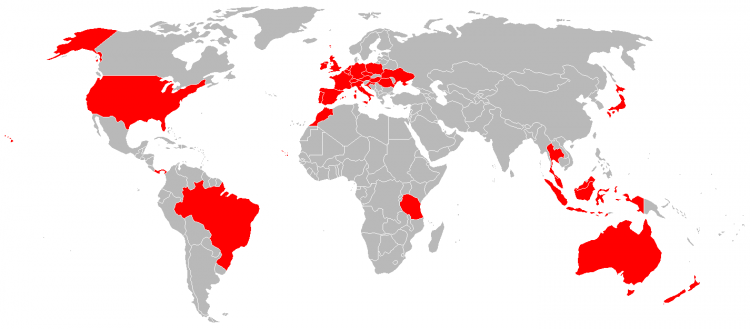
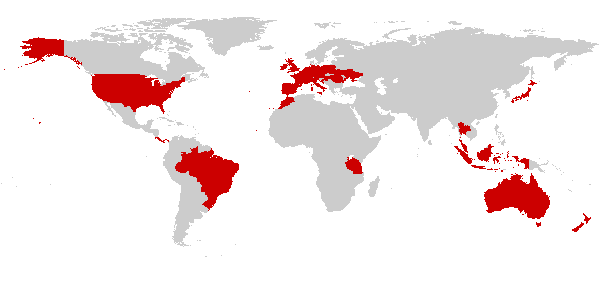
Part1 of CR TD

diff --git a/src/travel_15_costarica.html b/src/travel_15_costarica.html
@@ -82,35 +82,81 @@
 
     <article class="content">
         <div class="sections">
-            <section>
+            <section id="#part1">
+                <h3>10. August 2015: San Jose</h3>
                 <figure class="fig_right landscape">
-                    <a class="gallery" href="img/travel/japan/jp_cockpit_medium.jpg">
-                        <img class="lazy" data-original="/img/travel/japan/jp_cockpit_small.jpg"/>
+                    <a class="gallery" href="img/travel/america/cr_mural_medium.jpg">
+                        <img class="lazy" data-original="/img/travel/america/cr_mural_small.jpg"/>
                     </a>
-                    <figcaption>Sneak peak at the Boing 747 cockpit</figcaption>
+                    <figcaption>Art everywhere in San Jose</figcaption>
                 </figure>
-                <h3>25. September 2004: Freiburg</h3>
-               <p>Heathrow, alternder Moloch des westlichen Flugverkehrs, du hast mich wieder.</p>
-            </section>
-
-            <section>
+                <p>Freunde des ungepflegten Reisenewsletter, ich bin wieder da bzw eigentlich wieder weg, diesmal ab
+                    nach Costa Rica. Daran dachte ich vor einem Monat auch noch nicht, aber dank der glücklichen Fügung
+                    mit meinem Kumpel Tassi in Berlin ein Bierchen trinken zu gehen, bei dem er mir von seinen zwei
+                    Wochen Urlaub im August erzählte, sponn sich daraus dieser Urlaub mit ihm.</p>
+                <p>Angefangen bei Indien endeten unsere Pläne mit Umwege über Kuba und Äthiopien aber dann dank der
+                    Flugpreise und Buchungsmöglichkeiten hier. Und nun werden wir zwei Wochen mit dem Mietwagen von
+                    Küste zu Küste düsen *also düsen wenn es die Strassen zulassen* in der Hoffnung nicht ausgeraubt oder
+                    dem Verkehrsrowdytum zum Opfer zu fallen. Letzteres sollte ich aber nicht Mutti schreiben, die macht
+                    sich ja noch heute wo ich schon fast 40 werde Sorgen, wenn ich wegfliege *aber selber bis nach China
+                    düsen, jaja*</p>
+                <figure class="fig_left portrait">
+                    <a class="gallery" href="img/travel/america/cr_bimbo_medium.jpg">
+                        <img class="lazy" data-original="/img/travel/america/cr_bimbo_small.jpg"/>
+                    </a>
+                    <figcaption>Definitly not to be exported under this name</figcaption>
+                </figure>
+                <p>Ach ja, ungepflegt stimmt auch insoweit, als das ich grad langsam müde werde und irgendwie auch
+                    fauler und eigentlich keine Lust habe, die Fehler dieser total falsch eingestellten Tastaturbelegung
+                    auszubügeln, von daher hoffe ich ihr könnt meinen nochmehralssonstkreatven Schreibstil dennoch
+                    lesen und verstehen ;-) (und die Tasten für diesen Smiley zu finden hat lange gedauert sag ich
+                    euch).</p>
+                <p>Anyway, zurück zum Wesentlichen: Samstag morgen aus der Tür, in bester unbelehrbarer Tradition
+                    wieder mal nur zwei Stunden geschlafen, um 5 den Wecker klingeln lassen und dann 22 stunden mit
+                    zweimal umsteigen auf dem Hinweg verbracht. Dabei zwar nur eine Stunde Aufenthalt in Londons, dafür
+                    aber fünf in Houstons Flughafen, denn in letzterem muss man ja die amerikanische Immigration über
+                    sich ergehen lassen, in ersterem nur mal kurz im Schengenraum umsteigen. Tolle idee oder?
+                    Pustekuchen! Der Flieger aus Berlin drehte erstmal zwei Ehrenrunden und das erste, was ich beim
+                    Aussteigen von einer UnitedAirlines Mitarbeiterin hörte, waren die Worte: "You are going to Houston?
+                    RUN!" Also tat ich das. In Heathrow. Dem moloch der Flughäfen, mit Verbindungstunneln länger als der
+                    Fluchtweg eines mexikanischen Drogenbarons aus dem Knast. Und so waren meine ersten Worte als ich
+                    beim Abfluggate (noch rechtzeitig) ankam: Haben sie eine Dusche an Bord? Leider nein, aber dafür
+                    war ich auf dem weg richtung Texas. Dort war es natürlich nicht so hektisch und ich durfte 4 Stunden
+                    auf den Anschlussflieger warten. Oh well... Was sollte schon sonst noch schiefgehen? Ach ja....
+                    Mein Gepäck. Das konnte natürlich nicht sprinten und so wartete ich in San Jose vergeblich am
+                    Gepäckband. Wie ich erfuhr, wurde es über Newark.. Ach egal, euch interessiert doch eher wie Costa
+                    Rica ist, nicht wahr?</p>
+                <figure class="fig_right landscape">
+                    <a class="gallery" href="img/travel/america/cr_lake_medium.jpg">
+                        <img class="lazy" data-original="/img/travel/america/cr_lake_small.jpg"/>
+                    </a>
+                    <figcaption>Im Tretboot, in Seenot...</figcaption>
+                </figure>
+                <p>Eigentlich nicht so hübsch. Jep, San Jose nutzt man eher als Sprungbrett ins land, so für
+                    Tagestouren oder ähnliches, die Innenstadt ist nicht altkolonialistisch angehaucht, sondern dieser
+                    mix aus Geschaätshäusern, Betonbauten, neu und nichtganzsoneuabernichtaltalt, dreckig und
+                    ganzdreckig, und ganz selten mal ein Haus aus alten Zeiten, als die Spanier nicht nur im Fussball
+                    Weltruhm hatten. Für den heutigen Nachmittag zu flanieren langte es, inklusive leckerem
+                    Einheimischenlokal-reisbohnenkochbananenfisch-essen und im Park den Leuten im dortigen 100Meter
+                    Tümpel beim Tretbootfahren zuzukucken. Unser Hostel ist der LonelyPlanet-Bewertung angemssen ein
+                    von vielen Amis bevölkertes Backpackerhostel, aber dank starkem Akzent erkannten wir die
+                    Österreicher und Deutsche sofort.</p>
                 <figure class="fig_left landscape">
-                    <a class="gallery" href="img/travel/japan/jp_map_medium.jpg">
-                        <img class="lazy" data-original="/img/travel/japan/jp_map_small.jpg"/>
+                    <a class="gallery" href="img/travel/america/cr_pineapple_medium.jpg">
+                        <img class="lazy" data-original="/img/travel/america/cr_pineapple_small.jpg"/>
                     </a>
-                    <figcaption>Probably more confusing than helping.</figcaption>
+                    <figcaption>Reiseproviant</figcaption>
                 </figure>
-                <h3>27.-29. September 2004: Sendai</h3>
-                <p>Sushi, Suppen, Sayonara, Freunde, aus Sendai, einer Millionenstadt im Norden Japans!</p>
-                <figure class="fig_right landscape">
-                    <a class="gallery" href="img/travel/japan/jp_fishnet_medium.jpg">
-                        <img class="lazy" data-original="/img/travel/japan/jp_fishnet_small.jpg"/>
-                    </a>
-                    <figcaption>Fishing nets near Sendai</figcaption>
-                </figure>
-                <p>PS: Der blöde Tourist mit der Wasserflasche, der Jacke und dem Cockpit hat auch
-            bei seiner vorherigen Mail die falsche Internetadresse angegeben: Geht auf
-            www.veeck.de und alles wird gut.</p>
+                <p>Der coolste Mitbewohner ist aber das Kampfkuschelkarnickel. Okay, kämpfen tut es nicht, aber es
+                    lässt sich herrlich streicheln und "IT IS SO FLUFFYYYY" und klug obendrein, denn eben schaffte es
+                    gerade die Terassentür aufzustossen und hineinzuhoppeln. ich sollte also beim zubettgehen darauf
+                    achten wo ich hintrete.</p>
+                <p>Stichwort! Denn in diesem Sinne verabschiede ich mich in die Koje, drücke auf "Senden" ohne zu
+                    wissen, wer überhaupt alles in dem Verteiler noch ist oder fehlt und ohne versprechen zu können,
+                    dass ich nochmal die Muse abends finde lange vorm Internetcafe-pc zu sitzen. Oder wie man bei euch
+                    wohl nun sagt:</p>
+                <p>Schönen guten Morgen!</p>
+                <p>v</p>
             </section>
         </div>
     </article>
@@ -118,7 +164,7 @@
     <footer>
         <div class="shareButton dont_print"></div>
         <a class="to_top" href="#">back to top</a>
-        <time datetime="2015-08-24">page last modified 2015/08/24</time>
+        <time datetime="2015-08-29">page last modified 2015/08/29</time>
     </footer>
 
     <script src="js/vendor/modernizr.min.js" type="text/javascript"></script>

diff --git a/src/index.html b/src/index.html
@@ -97,6 +97,7 @@
             <section>
                 <h3>what has changed</h3>
                 <ul class="changelog">
+                    <li><time datetime="2015-08-29">2015/08/29: </time>Part 1 of my <a href="travel_15_costarica.html#part1" class="animsition-link">Costa Rica travel diary</a></li>
                     <li><time datetime="2015-05-12">2015/05/12: </time>Added opengraph stuff for cooler facebook / twitter posts</li>
                     <li><time datetime="2015-05-11">2015/05/11: </time>New fresh design, hope you like it</li>
                     <li><time datetime="2015-04-20">2015/04/20: </time>Added a link to my github profile on the <a href="personal_research.html#github" class="animsition-link">research page</a> using a webcomponent from <a href="http://pazguille.github.io/github-card/">Guille Paz</a></li>
@@ -125,10 +126,10 @@
             <section>
                 <h3>where have I been</h3>
                 <figure class="fig_left landscape">
-                    <!-- http://www.world66.com/community/mymaps/worldmap/BEFRHRDEJPLUHUBRSGTZPTIDNZPATHROPLVACHITCZAUATNLIECVESMCMYUSUKUAMA.gif -->
+                    <!-- http://www.world66.com/community/mymaps/worldmap/CRBEFRHRDEJPLUHUBRSGTZPTIDNZPATHROPLVACHITCZAUATNLIECVESMCMYUSUKUAMA.gif -->
                     <img src="img/travel/worldmap.png"
                          alt="a map of the countries i have visited so far" class="worldmap"/>
-                    <div class="overlay"><p>visited: 33 (14%)</p></div>
+                    <div class="overlay"><p>visited: 34 (14%)</p></div>
                 </figure>
 
                 <figure class="fig_right adfigure">
